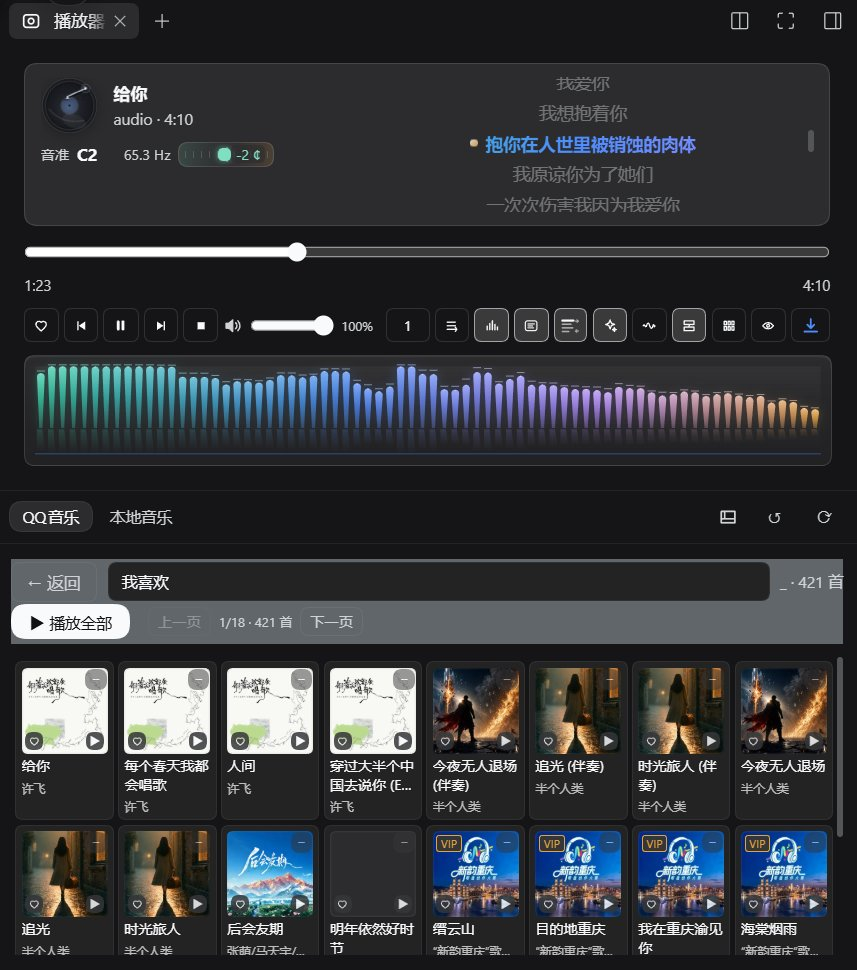
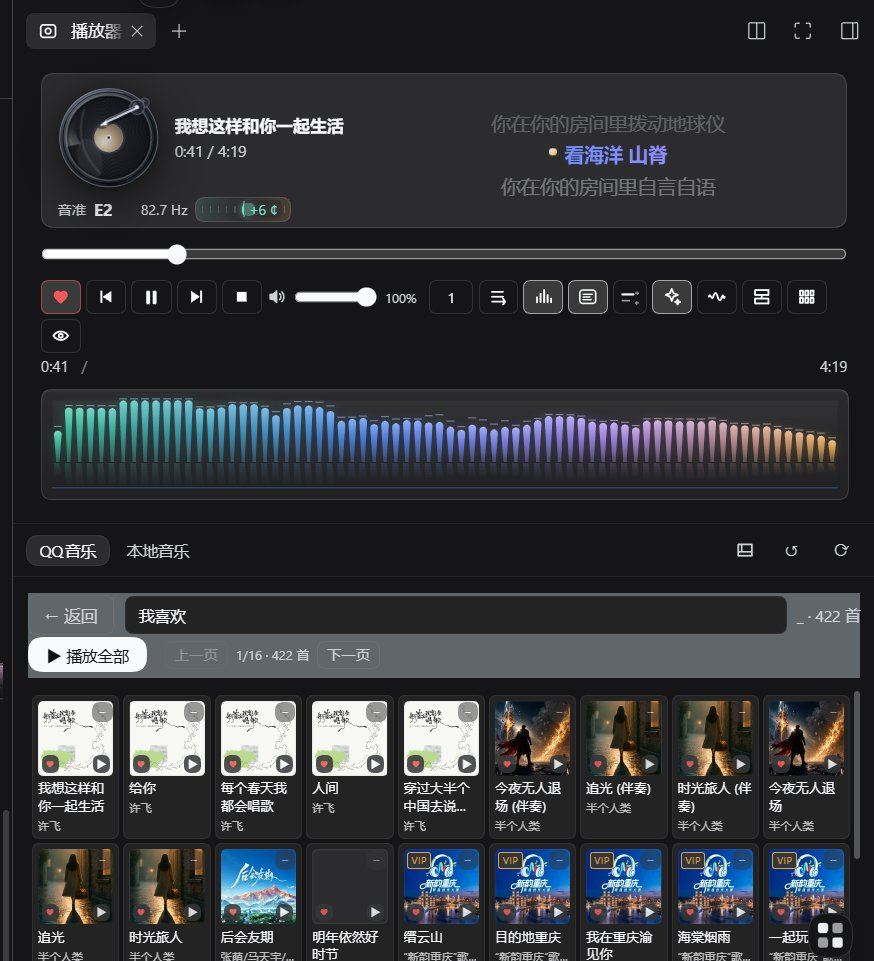
docs(0.2.42): 市场效果图换新（3 张深色实拍）+ README 补齐 0.2.22~0.2.42 特性与生效方式

diff --git a/README.md b/README.md
@@ -2,11 +2,11 @@
 
 侧边栏统一音视频播放器，作为 `dsh-better-sidebar` 的配套插件：一个 viewer 同时接管视频与音频预览，并提供独立的**播放器面板**（QQ 音乐在线曲库 + 本地音乐库）、一条可三态摆放的**胶囊播放条**，以及实时频谱 / 音准 / 歌词 / 字幕等播放态增强。
 
-**适配 DSH 内核 0.2.2-rc.1；当前版本 0.2.17。**
+**适配 DSH 内核 0.2.2-rc.1；当前版本 0.2.42。**
 
 > 0.2.6 起，此前记录的已知缺陷（进度条拖不动、切歌/收藏/倍速失效、歌词动效不生效、胶囊位置切换后消失等）已逐项修复；发布前对默认值、源码改动与打包清单做过机器断言核验（校验脚本随源码改动在开发环境执行，未纳入发布包）。仍建议先小范围试用再依赖。
 
-- 版本：0.2.17
+- 版本：0.2.42
 - 依赖：`dsh-better-sidebar`（提供 `ctx.betterSidebar` 文件查看器注册服务；缺失时插件自动降级，不影响 DSH 启动）
 
 ## 免责申明（请先读）
@@ -32,7 +32,7 @@
 
 - 把播放器**整个搬进侧边栏**：`ctx.betterSidebar` viewer 注册、侧边栏播放器面板、页签行（QQ音乐 / 本地音乐 / 隐藏列表 / ⟲ / ⟳）。
 - **胶囊上的按钮**：收藏、上一首、播放暂停、下一首、停止、音量、播放列表，以及与侧边栏按钮一一对应的同一控制源。
-- **界面改造**：控件行 18 枚同风格按钮、胶囊三态位置（上 / 下 / 隐藏）、精简播放条、歌词区与频谱 / 音准区、列表 6–10 列、唱片占位图、翻页与「播放全部」同行。
+- **界面改造**：控件行 17 枚同风格按钮、胶囊三态位置（上 / 下 / 隐藏）、精简播放条、歌词区与频谱 / 音准区、列表 6–10 列、唱片占位图、翻页与「播放全部」同行。
 - **主要功能**：本地音乐库与整文件 Blob seek、收藏与 QQ 音乐「我喜欢」同源、循环三态对手动切歌生效、歌词 5 档动效、字幕、默认值与一次性迁移。
 
 ## 功能
@@ -48,7 +48,8 @@
 
 - **顶部播放器区**：唱盘 + 歌名、歌词区（两句 / 歌词板）、实时频谱（柱状 / 波形）、音准读数（Hz + 音名 + 音分刻度尺）、进度条、控件行。
 - **页签行**：`QQ音乐` / `本地音乐` 两个页签（点页签自动展开列表）+ `隐藏列表`（只留上方播放器）+ `⟲` 刷新 QQ 数据（不重载页面、不中断播放）+ `⟳` 检查更新。
-- **控件行（18 枚候选同风格按钮，同屏最多 17 枚——字幕钮只在视频出现、歌词模式钮只在音频出现；单行不折行）**：收藏、上一首、播放/暂停、下一首、停止、音量、倍速 0.5–2、循环（顺序 → 单曲 → 随机）、频谱开关、频谱样式（柱状/波形）、字幕、歌词开关、歌词模式（两句/歌词板）、歌词动效（无/上滑/模糊/卡拉OK/炫彩 5 档）、胶囊位置（上/下/隐藏）、列表列数（6–10）、精简播放条、下载原文件。
+- **控件行（17 枚候选同风格按钮，同屏最多 16 枚——字幕钮只在视频出现、歌词模式钮只在音频出现；可换行，窄宽也不裁切）**：收藏（已收藏为红色心）、上一首、播放/暂停、下一首、停止、音量、倍速 0.5–2、循环（顺序 → 单曲 → 随机）、频谱开关、胶囊频谱（全柱 / 最初少柱两种画法）、字幕、歌词开关、歌词模式（两句/歌词板）、歌词动效（无/上滑/模糊/卡拉OK/炫彩 5 档）、胶囊位置（上/下/隐藏）、列表列数（6–10）、精简播放条。0.2.23 起移除「下载原文件」按钮（面板「⋯ 更多设置」里也不再提供）。
+- **播放时间**：进度条下方一行、两端贴齐（左当前时间 / 右总时长）；封面卡的副行同时给「当前 / 总时长」，两处同源。
 - 原「系统配置」独立页已并入控件行，不再有单独的设置页。
 
 ### 3. 本地音乐库
@@ -60,7 +61,8 @@
 ### 4. QQ 音乐在线曲库
 
 - 搜索、榜单、歌单（含「我喜欢」）、新歌速递；卡片封面 1:1 `contain` 自适应、VIP 左上角标、播放键右下小圆。
-- **收藏与 QQ 音乐「我喜欢」同源**：胶囊 ♥、面板 ♥、卡片 ♥ 三处读写同一个集合（宿主 `GET /qq/liked` 读、`POST /qq/fav` 写），不是插件自建的本地标记。
+- **收藏与 QQ 音乐「我喜欢」同源**：胶囊 ♥、面板 ♥、卡片 ♥ 三处读写同一个集合（宿主 `GET /qq/liked` 读、`POST /qq/fav` 写），不是插件自建的本地标记。已收藏的 ♥ 显示为**红色**（`--dsw-alias-state-error-primary`，深浅主题由宿主给值）；写入失败时条上给红字提示并回滚图标，判定为登录过期时会同时把面板切回「未登录」并露出扫码入口（0.2.41 起）。
+- **空列表点播放自动进「我喜欢」**：「我喜欢」按 `dirId=201` 定位，没有播放列表时点胶囊上的播放 → 打开面板并从我喜欢的第 1 首开始播（0.2.22 起）。
 - 歌词（含逐字歌词回落）、MV 同源反代（透传 Range/206）。
 - 卡片列数 6–10 可调；「翻页」与「播放全部」同一行，列表区不被页脚占用。
 
@@ -69,7 +71,9 @@
 - **三种位置**：输入框上方（默认）/ 页面底部 / 隐藏。选「隐藏」则完全不渲染胶囊条（侧边栏面板顶部的播放器不受影响）。
 - **精简播放条**：可切换成只留音符 + 歌名的一行（与「隐藏」是两件事）。
 - 条上按钮与面板控件**一一对应、同一控制源**（`SMP_STORE`）：收藏、上一首、播放/暂停、下一首、停止、音量、播放列表。
-- 音量竖条可上下拖动；歌词单行显示并跟随 5 档动效；点歌名可展开/收起。
+- 音量竖条可上下拖动；歌词单行显示并**在剩余空白区居中**（放不下时回退左对齐、只从右端裁切），跟随 5 档动效；点歌名可展开/收起。
+- **条宽实时跟随输入框卡片宽度**：读 `[data-composer-card]` 的 rect 写入 `--smp-card-x` / `--smp-card-w`（每 500ms + ResizeObserver 同步），拖宽输入框条就变宽，不写死像素值。
+- **胶囊频谱两档**：全柱（完整柱形，与侧边栏面板同一套渐变）／最初少柱（18 根色带柱，0.2.37 起照 GitHub v0.2.21 的原实现），由控件行的「胶囊频谱」按钮切换；侧边栏面板频谱始终完整柱形。
 
 ## 默认值（0.2.6 起定稿）
 
@@ -80,6 +84,7 @@
 | 歌词动效 | 炫彩（rainbow） |
 | 循环模式 | 顺序播放 |
 | 频谱 | 打开，柱状 |
+| 胶囊频谱 | 全柱（与面板一致） |
 | 歌词模式 | 两句（duo） |
 
 升级到 0.2.6 时会做一次**一次性迁移**（localStorage 标记 `smp.appearanceRev2`），把上述外观项拉到默认值；之后手动改过的设置完全保留，不再被覆盖。
@@ -98,17 +103,17 @@
 
 | 改了什么 | 怎么生效 |
 |---|---|
-| `lib/client.js`（客户端 bundle） | `Ctrl+Shift+R` 硬刷新；没变化就彻底退出 DSH 再启动 |
+| `lib/client.js`（客户端 bundle） | **彻底退出 DSH 客户端再启动**。本插件以 Junction 挂载为 private 包、未接入 `dsh-client-hmr`，桌面端菜单「重新加载界面」与 Ctrl+R / Ctrl+Shift+R 都不会重新读盘 |
 | `lib/index.js`（宿主端）/ `package.json` / `cordis.patch.yml` | 彻底退出 DSH 客户端再启动 |
 | 面板底部构建戳（`构建 YYYY-MM-DD HH:mm`） | 用来判断是否加载到新 bundle |
 
 ## 截图
 
-![侧边栏播放器面板：唱盘 + 逐行歌词 + 频谱 + 控件行 + QQ 音乐歌单（深色主题）](docs/screenshots/01-panel-playlist-dark.jpg)
+![侧边栏播放器面板：唱盘 + 逐行歌词 + 实时频谱 + 音准读数 + 控件行 + 「我喜欢」歌单（深色主题）](docs/screenshots/01-panel-playlist-dark.jpg)
 
-![贴底胶囊播放条：歌词在剩余空白区居中，点歌名弹出面板（深色主题）](docs/screenshots/02-capsule-popup-dark.jpg)
+![播放器面板另一态：歌词区染色、已收藏的红色心、进度与频谱同位（深色主题）](docs/screenshots/02-panel-lyrics-dark.jpg)
 
-![贴底胶囊播放条与任务面板同屏：条宽实时跟随输入框宽度（深色主题）](docs/screenshots/03-capsule-task-dark.jpg)
+![贴底胶囊播放条：条宽跟随输入框、歌词在剩余空白区居中、右侧是胶囊频谱（深色主题）](docs/screenshots/03-capsule-bar-dark.jpg)
 
 ## 已知限制
 
@@ -148,11 +153,11 @@ dsh-sidebar-media-player/
 
 A unified audio + video player for `dsh-better-sidebar`. One viewer takes over audio/video preview, and the plugin adds its own **player panel** (QQ Music online library + local library) and a **capsule bar** that can sit in three places, plus live spectrum, pitch readout, lyrics and subtitles.
 
-**Adapts the DSH kernel 0.2.2-rc.1; current version 0.2.17.**
+**Adapts the DSH kernel 0.2.2-rc.1; current version 0.2.42.**
 
 > Since 0.2.6, the previously documented defects (undroppable scrubber, dead next/favourite/rate controls, lyrics effects not applying, capsule disappearing after changing position) have been fixed one by one. Defaults, source changes and the packed file list were checked with machine assertions during development; those check scripts live in the development environment and are not shipped in this package. Trying it on a small scale first is still recommended.
 
-- Version: 0.2.17
+- Version: 0.2.42
 - Requires: `dsh-better-sidebar` (provides the `ctx.betterSidebar` viewer registration service; when absent the plugin degrades gracefully and never blocks DSH startup)
 
 ## Disclaimer (please read first)
@@ -204,7 +209,8 @@ This plugin is a **third-party hobby tool. It is not an official QQ Music produc
 ### 4. QQ Music online library
 
 - Search, charts, playlists (including "I like"), new songs; 1:1 `contain` artwork, VIP corner badge, small play button.
-- **Favourites are shared with QQ Music's own "I like"**: capsule heart, panel heart and card heart all read and write the same remote collection (host `GET /qq/liked` / `POST /qq/fav`), not a local flag.
+- **Favourites are shared with QQ Music's own "I like"**: capsule heart, panel heart and card heart all read and write the same remote collection (host `GET /qq/liked` / `POST /qq/fav`), not a local flag. A liked heart turns **red** (`--dsw-alias-state-error-primary`); a failed write shows a red hint on the bar and rolls the icon back, and an expired login also flips the panel to "not signed in" with the QR entry (0.2.41).
+- **An empty queue plays "I like" first**: with no playlist loaded, pressing play on the capsule opens the panel and starts the first track of "I like" (`dirId=201`, 0.2.22).
 - Lyrics (with word-by-word fallback), MV proxied same-origin with Range/206 passthrough.
 - Grid columns adjustable 6–10; pager sits on the same line as "Play all" so the list never loses a row to the footer.
 
@@ -238,17 +244,17 @@ Upgrading to 0.2.6 runs a **one-time migration** (localStorage marker `smp.appea
 
 | What changed | How to apply |
 |---|---|
-| `lib/client.js` (client bundle) | `Ctrl+Shift+R` hard refresh; if nothing changes, fully quit and relaunch DSH |
+| `lib/client.js` (client bundle) | **Fully quit and relaunch DSH.** The plugin is mounted as a private package through a Junction and does not use `dsh-client-hmr`, so neither the desktop "Reload interface" menu nor Ctrl+R / Ctrl+Shift+R re-reads the bundle from disk |
 | `lib/index.js` (host) / `package.json` / `cordis.patch.yml` | Fully quit and relaunch DSH |
 | Build stamp at the panel bottom (`构建 YYYY-MM-DD HH:mm`) | Tells you whether the new bundle is loaded |
 
 ## Screenshots
 
-![The sidebar player panel: turntable, synced lyrics, spectrum, control row and the QQ Music playlist (dark theme)](docs/screenshots/01-panel-playlist-dark.jpg)
+![The sidebar player panel: turntable, synced lyrics, live spectrum, pitch readout, control row and the "I like" playlist (dark theme)](docs/screenshots/01-panel-playlist-dark.jpg)
 
-![The bottom capsule bar: lyric centered in the leftover space, click the song title to open the panel (dark theme)](docs/screenshots/02-capsule-popup-dark.jpg)
+![Second panel state: tinted lyric area, red liked heart, progress row and spectrum (dark theme)](docs/screenshots/02-panel-lyrics-dark.jpg)
 
-![The bottom capsule bar beside the task panel: bar width tracks the composer width live (dark theme)](docs/screenshots/03-capsule-task-dark.jpg)
+![The bottom capsule bar: width tracks the composer, lyric centered in the leftover space, capsule spectrum on the right (dark theme)](docs/screenshots/03-capsule-bar-dark.jpg)
 
 ## Known limitations
 

diff --git a/CHANGELOG.md b/CHANGELOG.md
@@ -5,6 +5,7 @@
 - 改造：**已收藏的 ♥ 改成红色**。三处收藏心统一走同一个令牌 `--dsw-alias-state-error-primary`（与面板错误 toast `.dsh-music-panel-toast.err` 同一令牌，fallback `#e5534b`，浅/深主题由宿主给值）：贴底胶囊 `.dsh-music-bar-btn.fav.on`、播放器面板 ❤（`cfgBtn` 新增可选 `onStyle` 参数，只给收藏钮染红，其它激活钮仍用品牌色底）、QQ 音乐卡片 `.smp-qq-card-fav.on`。
 - 调整：胶囊未收藏态悬停由「变白」改为「变亮到 label-primary」，已收藏态悬停保持红并 `filter: brightness(1.15)` 提亮 —— 原来悬停会把红心刷成白色，看着像被取消。
 - 说明（写给后来人）：收藏态以前用 `--dsh-music-accent`（播放器品牌绿），语义上不对；官方主题令牌里没有专门的「收藏红」，`--dsw-alias-state-error-primary` 是唯一现成的红色语义令牌。
+- 文档：插件市场效果图换新为三张深色实拍（面板全貌 / 面板歌词态 / 贴底胶囊条），`screenshots.json` 同步更新；README 中英双语补齐 0.2.22~0.2.42 的新特性（收藏红与登录过期提示、空列表点播放进「我喜欢」、胶囊频谱两档、条宽跟随输入框、歌词居中、唱盘换代、控件行 17 枚），并撤掉「Ctrl+Shift+R 硬刷新」这条与桌面端实测相反、会把用户带偏的生效方式说明。
 
 ## 0.2.41
 
